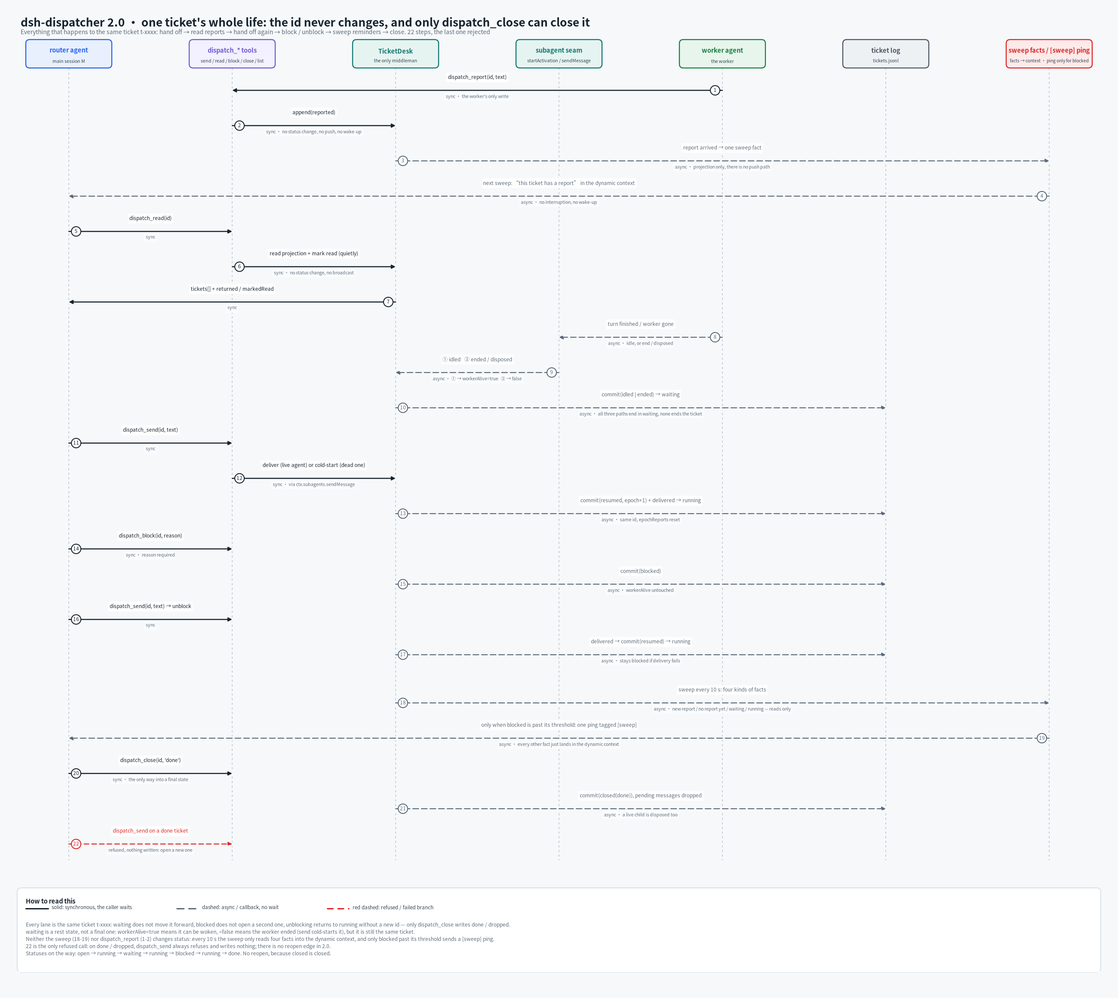
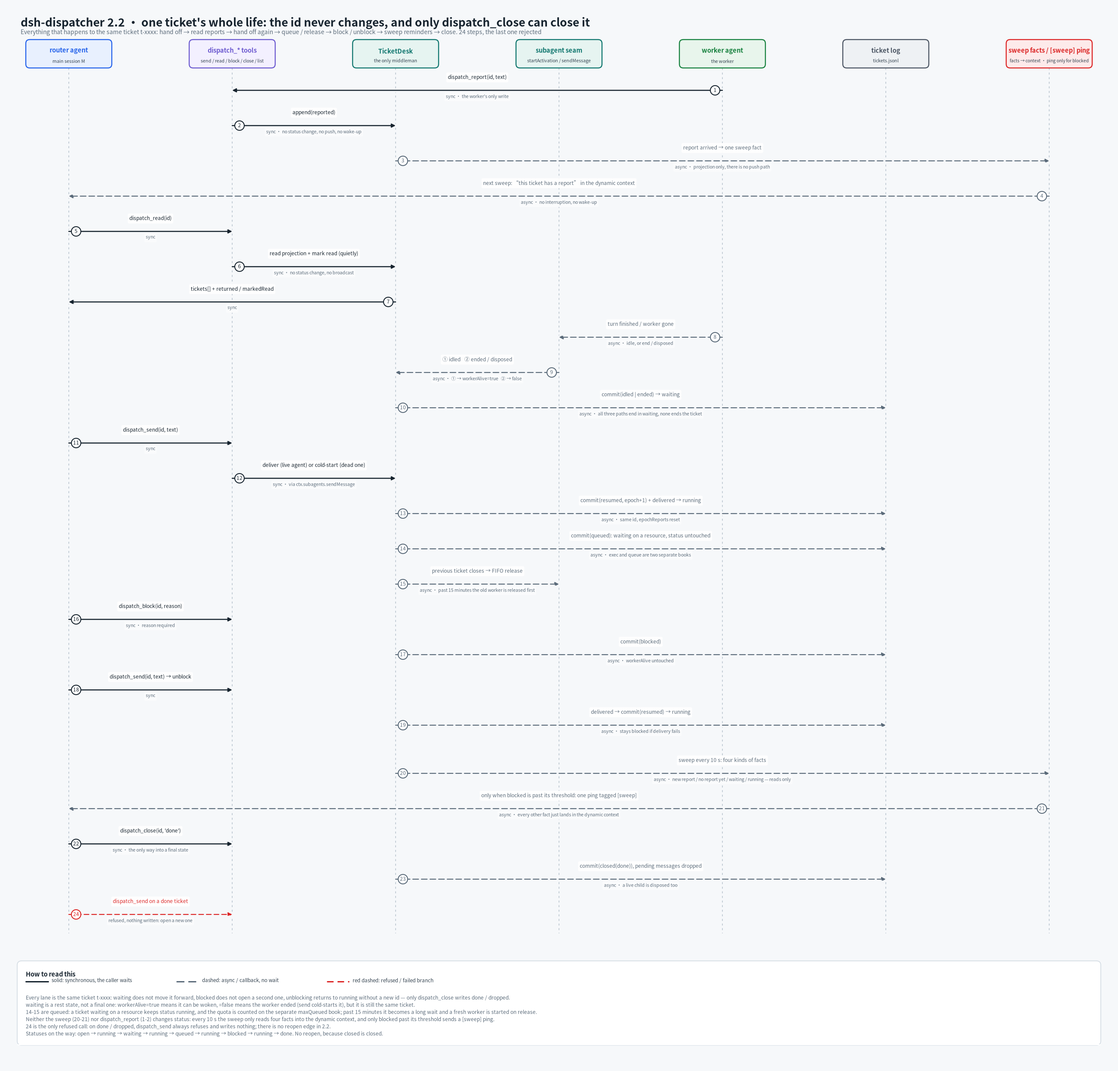
docs: 更新 README、CHANGELOG 与派活时序图
README 中英两版按 2.2.1 的现状收口：安装包名换成 dsh-dispatcher-2.2.1.tgz，
工具表补齐 dispatch_declare 与 dispatch_touch（protocol.ts 一共 11 个），
探路段写清 2 分钟探路窗口与 plan 摘要进执行轮任务书，状态节补 phase
（planning / planned / queued / running）与 15 分钟长短等，开发节补 pnpm coverage；
英文版顺手清掉混在正文里的「子会话」，已废弃的 maxOpen 换成 maxExec / maxQueued（8/4）。

CHANGELOG 从 2.1.1 补到 2.2.1：2.2.0 记事件总线与巡检驱动换源，2.2.1 记
feature/revert-ledger 上 main..HEAD 的 18 条（声明入口、冲突判定、探路窗口、
生命周期收口、四个对象、apply 五安装器、覆盖率接入等），测试 69 个文件 745 条。

docs/sequences.py 两张图加步骤后重生成：open 图补「探路 → dispatch_declare
→ 放行」五步（15 → 20 步），lifecycle 图补 queued 排队与 FIFO 放行两步
（22 → 24 步），中英文案、画布高度、分隔位置一起调，脚本自检 CHECK=PASS。

diff --git a/docs/sequences.py b/docs/sequences.py
@@ -224,8 +224,8 @@ def _legend(ax, x, y, w, items, note, head):
 # ---------------------------------------------------------------- 文案（zh / en）
 LANG = {
     "zh": {
-        "open_title": "dsh-dispatcher 2.0 一次派活：router 只递一句话，选档、建票、spawn 全在票台里",
-        "open_sub": "从左到右是一条调用链：M 只调一个工具，票台负责校验、选档、记账，日志只追加；下面 15 步是这条链上的实际顺序",
+        "open_title": "dsh-dispatcher 2.2 一次派活：router 只递一句话，选档、建票、spawn 全在票台里",
+        "open_sub": "从左到右是一条调用链：M 只调一个工具，票台负责校验、选档、记账，日志只追加；下面 20 步是这条链上的实际顺序（12-17 是探路、declare 与放行）",
         "open_lanes": [
             ("router agent", "主会话 M", BLUE_FC, BLUE),
             ("dispatch_open", "工具壳（唯一入口）", VIOLET_FC, VIOLET),
@@ -248,19 +248,26 @@ LANG = {
             (9, "S", "D", "sync", "childId + messageId", "同步 · 首条 prompt 已进 inbox，原子"),
             (10, "D", "LG", "async", "commit(spawned, running, workerId)", "异步"),
             (11, "D", "R", "sync", "回执：票号 + status + openCount", "同步 · 没有 workerId"),
-            (12, "S", "W", "async", "worker 开始跑（首条 prompt）", "异步 · 不阻塞回执"),
-            (13, "L", "D", "fail", "超时 / 报错 / 返回空 / 名单外的档", "回落 config.defaultPreset，presetSource='fallback'，照走"),
-            (14, "C", "D", "fail", "resolve 失败：档名不在 config.presets", "不报错，同样回落默认档，建票继续"),
-            (15, "S", "D", "fail", "reject（容量 / 深度 / 取消）", "commit(spawn-failed)，票停在 open，工具把原文抛给模型"),
+            (12, "S", "W", "async", "worker 跑探路轮（只读，无写工具）", "异步 · 不阻塞回执"),
+            (13, "W", "T", "sync", "dispatch_declare(plan, intent)", "同步 · 票号不给，按会话反查自己那张票"),
+            (14, "T", "D", "sync", "append(declared) + 冲突判定", "同步 · 只追加，不碰 status"),
+            (15, "D", "LG", "async", "commit(declared → planned / queued)", "异步 · 一直没声明就 2 分钟后降级"),
+            (16, "D", "S", "sync", "startTask：plan 摘要 + intent 进执行轮任务书", "同步 · 这一步就是放行"),
+            (17, "D", "LG", "async", "commit(resumed → running)", "异步 · 同一张票，号不变"),
+            (18, "L", "D", "fail", "超时 / 报错 / 返回空 / 名单外的档", "回落 config.defaultPreset，presetSource='fallback'，照走"),
+            (19, "C", "D", "fail", "resolve 失败：档名不在 config.presets", "不报错，同样回落默认档，建票继续"),
+            (20, "S", "D", "fail", "reject（容量 / 深度 / 取消）", "commit(spawn-failed)，票停在 open，工具把原文抛给模型"),
         ],
         "open_notes": [
             "票是先落盘、再 spawn：7 的 published(open) 一定早于 8 的 startActivation，所以不存在「spawn 了但票里没它」的窗口。",
+            "探路窗口默认 2 分钟：13 步一直没来就降级——票转 planned 并标 degraded，直接投一轮「干完补声明」，不静默放行。",
+            "13 步交的 plan 在 16 步进任务书：摘要前 200 字、前 8 个文件各一句，执行子会话看得见边界，越界对账才有依据。",
             "选档失败只是一次降级——4/5 挂了照样往 7 走；只有 8 的 seam reject 才让票停在 open（可重试、可关，不删票）。",
             "参数里没有 preset：router 想指定也只是建议，判定结果和来源（llm / static / fallback）写进票里，router 从 dispatch_list 看得到。",
         ],
         "open_boundary": "router 只看 ticket，worker 对它透明：回执里没有 workerId",
-        "life_title": "dsh-dispatcher 2.0 一张票的完整生命周期：票号从头到尾不变，只有 dispatch_close 能收工",
-        "life_sub": "同一张票 t-xxxx 上先后发生的所有事：交活 → 读报告 → 再派活 → 卡住/解封 → 巡检提醒 → 收工；22 步，最后一步是收工后再派活被拒",
+        "life_title": "dsh-dispatcher 2.2 一张票的完整生命周期：票号从头到尾不变，只有 dispatch_close 能收工",
+        "life_sub": "同一张票 t-xxxx 上先后发生的所有事：交活 → 读报告 → 再派活 → 排队/放行 → 卡住/解封 → 巡检提醒 → 收工；24 步，最后一步是收工后再派活被拒",
         "life_lanes": [
             ("router agent", "主会话 M", BLUE_FC, BLUE),
             ("dispatch_* 工具", "send / read / block / close / list", VIOLET_FC, VIOLET),
@@ -284,22 +291,25 @@ LANG = {
             (11, "R", "T", "sync", "dispatch_send(id, text)", "同步"),
             (12, "T", "D", "sync", "投递（活 agent 直接投，死了冷启动）", "同步 · 走 ctx.subagents.sendMessage"),
             (13, "D", "LG", "async", "commit(resumed, epoch+1) + delivered → running", "异步 · 票号不变、epochReports 归零"),
-            (14, "R", "T", "sync", "dispatch_block(id, reason)", "同步 · reason 非空"),
-            (15, "D", "LG", "async", "commit(blocked)", "异步 · workerAlive 原样保留"),
-            (16, "R", "T", "sync", "dispatch_send(id, text)：解封", "同步"),
-            (17, "D", "LG", "async", "投递成功 → commit(resumed) → running", "异步 · 投不进去就留在 blocked"),
-            (18, "D", "N", "async", "每 10 秒巡一遍：四类事实", "异步 · 报告到了 / 干完没交报告 / waiting / running，只读不改票"),
-            (19, "N", "R", "async", "只有 blocked 超过阈值才发一条带 [sweep] 的提醒", "异步 · 其余事实只进动态上下文，不打扰人"),
-            (20, "R", "T", "sync", "dispatch_close(id, 'done')", "同步 · 唯一终态入口"),
-            (21, "D", "LG", "async", "commit(closed(done))，作废未投递消息", "异步 · 活着的 child 一并 dispose"),
-            (22, "R", "T", "fail", "done 票上再 dispatch_send", "拒绝、一行不写，回「票已收工，需要继续请开新票」"),
+            (14, "D", "LG", "async", "commit(queued)：撞资源排队，status 不动", "异步 · 8+4 两本账，排队单独数"),
+            (15, "D", "S", "async", "前票收工 → 按 FIFO 放行，投或新起执行轮", "异步 · 排超过 15 分钟先放掉原 worker"),
+            (16, "R", "T", "sync", "dispatch_block(id, reason)", "同步 · reason 非空"),
+            (17, "D", "LG", "async", "commit(blocked)", "异步 · workerAlive 原样保留"),
+            (18, "R", "T", "sync", "dispatch_send(id, text)：解封", "同步"),
+            (19, "D", "LG", "async", "投递成功 → commit(resumed) → running", "异步 · 投不进去就留在 blocked"),
+            (20, "D", "N", "async", "每 10 秒巡一遍：四类事实", "异步 · 报告到了 / 干完没交报告 / waiting / running，只读不改票"),
+            (21, "N", "R", "async", "只有 blocked 超过阈值才发一条带 [sweep] 的提醒", "异步 · 其余事实只进动态上下文，不打扰人"),
+            (22, "R", "T", "sync", "dispatch_close(id, 'done')", "同步 · 唯一终态入口"),
+            (23, "D", "LG", "async", "commit(closed(done))，作废未投递消息", "异步 · 活着的 child 一并 dispose"),
+            (24, "R", "T", "fail", "done 票上再 dispatch_send", "拒绝、一行不写，回「票已收工，需要继续请开新票」"),
         ],
         "life_notes": [
             "整张图都是同一张票 t-xxxx：进 waiting 不前、进 blocked 不再开票、解封回 running 也不换号——只有 dispatch_close 能把它写成 done / dropped。",
             "waiting 是静息态不是终态：workerAlive=true 表示叫得醒，=false 表示人已经结束（send 走冷启动），但票还是同一张。",
-            "巡检（18-19）和 dispatch_report（1-2）都不改 status：每 10 秒只把四类事实读出来写进动态上下文，只有 blocked 过阈值才发一条 [sweep] 提醒。",
-            "22 号是唯一被拒的动作：done / dropped 上 dispatch_send 一律拒绝、一行不写；「重开」这条边在 2.0 里不存在。",
-            "票状态一路走过：open → running → waiting → running → blocked → running → done；没有重开，因为收工就是收工。",
+            "14-15 的 queued 只写相位：撞资源的票 status 还是 running，名额单独记在 maxQueued 那本账上；排队超过 15 分钟算长等，放行时新起一只。",
+            "巡检（20-21）和 dispatch_report（1-2）都不改 status：每 10 秒只把四类事实读出来写进动态上下文，只有 blocked 过阈值才发一条 [sweep] 提醒。",
+            "24 号是唯一被拒的动作：done / dropped 上 dispatch_send 一律拒绝、一行不写；「重开」这条边在 2.2 里不存在。",
+            "票状态一路走过：open → running → waiting → running → queued → running → blocked → running → done；没有重开，因为收工就是收工。",
         ],
         "legend_head": "怎么读这张图",
         "legend_items": [
@@ -309,8 +319,8 @@ LANG = {
         ],
     },
     "en": {
-        "open_title": "dsh-dispatcher 2.0 · one dispatch: the router sends a sentence, the desk picks the preset, opens the ticket and spawns",
-        "open_sub": "Left to right is one call chain: M calls a single tool, the desk validates, picks the preset and records; the log is append-only. The 15 steps below are the real order",
+        "open_title": "dsh-dispatcher 2.2 · one dispatch: the router sends a sentence, the desk picks the preset, opens the ticket and spawns",
+        "open_sub": "Left to right is one call chain: M calls a single tool, the desk validates, picks the preset and records; the log is append-only. The 20 steps below are the real order (12-17 are the probe, declare and release)",
         "open_lanes": [
             ("router agent", "main session M", BLUE_FC, BLUE),
             ("dispatch_open", "tool shell (only entry)", VIOLET_FC, VIOLET),
@@ -333,19 +343,26 @@ LANG = {
             (9, "S", "D", "sync", "childId + messageId", "sync · first prompt already in the inbox"),
             (10, "D", "LG", "async", "commit(spawned, running, workerId)", "async"),
             (11, "D", "R", "sync", "reply: ticket id + status + openCount", "sync · no workerId"),
-            (12, "S", "W", "async", "the worker starts (first prompt)", "async · does not block the reply"),
-            (13, "L", "D", "fail", "timeout / error / empty / unknown preset", "fall back to config.defaultPreset, presetSource='fallback'"),
-            (14, "C", "D", "fail", "resolve fails: preset not in config.presets", "no error — same fallback, the ticket still opens"),
-            (15, "S", "D", "fail", "reject (capacity / depth / cancelled)", "commit(spawn-failed), ticket stays open, the error text goes to the model"),
+            (12, "S", "W", "async", "worker starts the probe round (read-only)", "async · does not block the reply"),
+            (13, "W", "T", "sync", "dispatch_declare(plan, intent)", "sync · no ticket id — the desk finds this worker's ticket"),
+            (14, "T", "D", "sync", "append(declared) + conflict judgement", "sync · append only, status untouched"),
+            (15, "D", "LG", "async", "commit(declared → planned / queued)", "async · no declaration in 2 minutes and the ticket degrades"),
+            (16, "D", "S", "sync", "startTask: plan summary + intent into the task brief", "sync · this is the release"),
+            (17, "D", "LG", "async", "commit(resumed → running)", "async · same ticket, same id"),
+            (18, "L", "D", "fail", "timeout / error / empty / unknown preset", "fall back to config.defaultPreset, presetSource='fallback'"),
+            (19, "C", "D", "fail", "resolve fails: preset not in config.presets", "no error — same fallback, the ticket still opens"),
+            (20, "S", "D", "fail", "reject (capacity / depth / cancelled)", "commit(spawn-failed), ticket stays open, the error text goes to the model"),
         ],
         "open_notes": [
             "The ticket is written before the spawn: step 7's published(open) always precedes step 8's startActivation, so there is no window with a worker but no ticket.",
+            "The probe window is 2 minutes: if step 13 never arrives the ticket degrades — it moves to planned, is marked degraded, and gets one \"just do it, declare afterwards\" round instead of a silent release.",
+            "The plan from step 13 goes into the brief at step 16: the 200-character summary and the first 8 files, one line each, so the working fish can see its own boundary.",
             "A preset failure is only a downgrade — steps 4/5 can fail and step 7 still runs; only a seam reject at step 8 leaves the ticket in open (retryable, closable, never deleted).",
             "No preset argument: the router may suggest one, but the decision and its source (llm / static / fallback) are stored on the ticket and visible via dispatch_list.",
         ],
         "open_boundary": "the router only sees the ticket; the worker is invisible to it — the reply has no workerId",
-        "life_title": "dsh-dispatcher 2.0 · one ticket's whole life: the id never changes, and only dispatch_close can close it",
-        "life_sub": "Everything that happens to the same ticket t-xxxx: hand off → read reports → hand off again → block / unblock → sweep reminders → close. 22 steps, the last one rejected",
+        "life_title": "dsh-dispatcher 2.2 · one ticket's whole life: the id never changes, and only dispatch_close can close it",
+        "life_sub": "Everything that happens to the same ticket t-xxxx: hand off → read reports → hand off again → queue / release → block / unblock → sweep reminders → close. 24 steps, the last one rejected",
         "life_lanes": [
             ("router agent", "main session M", BLUE_FC, BLUE),
             ("dispatch_* tools", "send / read / block / close / list", VIOLET_FC, VIOLET),
@@ -369,22 +386,25 @@ LANG = {
             (11, "R", "T", "sync", "dispatch_send(id, text)", "sync"),
             (12, "T", "D", "sync", "deliver (live agent) or cold-start (dead one)", "sync · via ctx.subagents.sendMessage"),
             (13, "D", "LG", "async", "commit(resumed, epoch+1) + delivered → running", "async · same id, epochReports reset"),
-            (14, "R", "T", "sync", "dispatch_block(id, reason)", "sync · reason required"),
-            (15, "D", "LG", "async", "commit(blocked)", "async · workerAlive untouched"),
-            (16, "R", "T", "sync", "dispatch_send(id, text) → unblock", "sync"),
-            (17, "D", "LG", "async", "delivered → commit(resumed) → running", "async · stays blocked if delivery fails"),
-            (18, "D", "N", "async", "sweep every 10 s: four kinds of facts", "async · new report / no report yet / waiting / running — reads only"),
-            (19, "N", "R", "async", "only when blocked is past its threshold: one ping tagged [sweep]", "async · every other fact just lands in the dynamic context"),
-            (20, "R", "T", "sync", "dispatch_close(id, 'done')", "sync · the only way into a final state"),
-            (21, "D", "LG", "async", "commit(closed(done)), pending messages dropped", "async · a live child is disposed too"),
-            (22, "R", "T", "fail", "dispatch_send on a done ticket", "refused, nothing written: open a new one"),
+            (14, "D", "LG", "async", "commit(queued): waiting on a resource, status untouched", "async · exec and queue are two separate books"),
+            (15, "D", "S", "async", "previous ticket closes → FIFO release", "async · past 15 minutes the old worker is released first"),
+            (16, "R", "T", "sync", "dispatch_block(id, reason)", "sync · reason required"),
+            (17, "D", "LG", "async", "commit(blocked)", "async · workerAlive untouched"),
+            (18, "R", "T", "sync", "dispatch_send(id, text) → unblock", "sync"),
+            (19, "D", "LG", "async", "delivered → commit(resumed) → running", "async · stays blocked if delivery fails"),
+            (20, "D", "N", "async", "sweep every 10 s: four kinds of facts", "async · new report / no report yet / waiting / running — reads only"),
+            (21, "N", "R", "async", "only when blocked is past its threshold: one ping tagged [sweep]", "async · every other fact just lands in the dynamic context"),
+            (22, "R", "T", "sync", "dispatch_close(id, 'done')", "sync · the only way into a final state"),
+            (23, "D", "LG", "async", "commit(closed(done)), pending messages dropped", "async · a live child is disposed too"),
+            (24, "R", "T", "fail", "dispatch_send on a done ticket", "refused, nothing written: open a new one"),
         ],
         "life_notes": [
             "Every lane is the same ticket t-xxxx: waiting does not move it forward, blocked does not open a second one, unblocking returns to running without a new id — only dispatch_close writes done / dropped.",
             "waiting is a rest state, not a final one: workerAlive=true means it can be woken, =false means the worker ended (send cold-starts it), but it is still the same ticket.",
-            "Neither the sweep (18-19) nor dispatch_report (1-2) changes status: every 10 s the sweep only reads four facts into the dynamic context, and only blocked past its threshold sends a [sweep] ping.",
-            "22 is the only refused call: on done / dropped, dispatch_send always refuses and writes nothing; there is no reopen edge in 2.0.",
-            "Statuses on the way: open → running → waiting → running → blocked → running → done. No reopen, because closed is closed.",
+            "14-15 are queued: a ticket waiting on a resource keeps status running, and the quota is counted on the separate maxQueued book; past 15 minutes it becomes a long wait and a fresh worker is started on release.",
+            "Neither the sweep (20-21) nor dispatch_report (1-2) changes status: every 10 s the sweep only reads four facts into the dynamic context, and only blocked past its threshold sends a [sweep] ping.",
+            "24 is the only refused call: on done / dropped, dispatch_send always refuses and writes nothing; there is no reopen edge in 2.2.",
+            "Statuses on the way: open → running → waiting → running → queued → running → blocked → running → done. No reopen, because closed is closed.",
         ],
         "legend_head": "How to read this",
         "legend_items": [
@@ -399,8 +419,8 @@ LANG = {
 # ---------------------------------------------------------------- 图一：一次派活
 def draw_seq_open(lang):
     t = LANG[lang]
-    W, H = 2600, 1900
-    fig, ax = canvas(W, H, (26, 19.0))
+    W, H = 2600, 2340
+    fig, ax = canvas(W, H, (26, 23.4))
 
     txt(ax, 48, H - 36, t["open_title"], fs=19, weight="bold")
     txt(ax, 48, H - 66, t["open_sub"], fs=10.0, color=MUTED)
@@ -411,18 +431,18 @@ def draw_seq_open(lang):
     pitch = (W - 120 - bw) / (n - 1)
     xs = [60 + bw / 2 + i * pitch for i in range(n)]
     for (name, sub, fc, ec), x in zip(lanes, xs):
-        _lane(ax, x, bw, name, sub, fc, ec, 1808, 300)
+        _lane(ax, x, bw, name, sub, fc, ec, H - 92, 300)
 
     pos = dict(zip(("R", "T", "D", "C", "L", "S", "W", "LG"), xs))
 
     # router / 票台之间的边界
     bx = xs[0] + 92
-    path(ax, [(bx, 1740), (bx, 420)], color="#9aa7b3", lw=1.5, ls=(0, (6, 4)))
-    txt(ax, bx + 12, 404, t["open_boundary"], fs=8.4, color=MUTED, max_w=900)
+    path(ax, [(bx, H - 160), (bx, 470)], color="#9aa7b3", lw=1.5, ls=(0, (6, 4)))
+    txt(ax, bx + 12, 454, t["open_boundary"], fs=8.4, color=MUTED, max_w=900)
 
-    y = 1700
+    y = H - 200
     for num, a, b, kind, l1, l2 in t["open_rows"]:
-        if num == 13:
+        if num == 18:
             y -= 30
         _msg(ax, num, pos[a], pos[b], y, l1, l2, kind)
         y -= 86
@@ -439,8 +459,8 @@ def draw_seq_open(lang):
 # ---------------------------------------------------------------- 图二：一张票的生命周期
 def draw_seq_life(lang):
     t = LANG[lang]
-    W, H = 2600, 2320
-    fig, ax = canvas(W, H, (26, 23.2))
+    W, H = 2600, 2490
+    fig, ax = canvas(W, H, (26, 24.9))
 
     txt(ax, 48, H - 36, t["life_title"], fs=19, weight="bold")
     txt(ax, 48, H - 66, t["life_sub"], fs=10.0, color=MUTED)
@@ -451,13 +471,13 @@ def draw_seq_life(lang):
     pitch = (W - 120 - bw) / (n - 1)
     xs = [60 + bw / 2 + i * pitch for i in range(n)]
     for (name, sub, fc, ec), x in zip(lanes, xs):
-        _lane(ax, x, bw, name, sub, fc, ec, 2228, 320)
+        _lane(ax, x, bw, name, sub, fc, ec, H - 92, 320)
 
     pos = dict(zip(("R", "T", "D", "S", "W", "LG", "N"), xs))
 
-    y = 2110
+    y = H - 210
     for num, a, b, kind, l1, l2 in t["life_rows"]:
-        if num == 18:
+        if num == 20:
             y -= 30
         _msg(ax, num, pos[a], pos[b], y, l1, l2, kind)
         y -= 82

diff --git a/README.en.md b/README.en.md
@@ -20,7 +20,7 @@ The figure is one call chain: the main session calls `dispatch_open` once, the d
 
 ```sh
 pnpm pack
-dsh plugin --profile <name> add ./dsh-dispatcher-2.0.0.tgz
+dsh plugin --profile <name> add ./dsh-dispatcher-2.2.1.tgz
 dsh --profile <name> --dump-config | grep 'dsh-dispatcher'
 ```
 
@@ -34,7 +34,8 @@ To use SQLite, set `store.backend: sqlite` (optionally `store.file`; without it 
   name: dsh-dispatcher
   config:
     defaultPreset: t1            # required; must exist in the preset registry
-    maxOpen: 4
+    maxExec: 8                   # tickets actually executing at once
+    maxQueued: 4                 # tickets waiting in the conflict queue
     allowedPresets: [t0, t1, t2] # mirror used by the preset guard; [] disables the check
 ```
 
@@ -51,10 +52,14 @@ The full key list, defaults, and the event model live in [docs/internals.en.md](
 | `dispatch_block` | main session | Park a ticket while a person decides something |
 | `dispatch_close` | main session | Finish it: `done` when the work landed, `dropped` when abandoned; queued messages are voided and the fish is stopped |
 | `dispatch_report` | fish | Hand back a report; append-only, it cannot change status |
+| `dispatch_declare` | fish | Declare `plan` and `intent` in the probe round; no ticket id — the desk finds the ticket this worker owns, and nothing but an append happens |
+| `dispatch_touch` | fish | Report the files actually touched this round, reconciled when the ticket closes; merged by path, still scoped to the caller's own ticket |
 | `dispatch_log_action` | main session, fish | Log one side-effecting step and how to undo it; append-only, never touches status |
 | `progress_note` | manual | Push one line of progress to the phone without waking a session or touching disk |
 
-`dispatch_open` takes optional `origin` (who opened it). It takes neither `intent` (paths/services/remotes touched, reversibility, dry-run result) nor `probe`: every ticket starts with a probe round, and there is no path that skips it. The first 子会话 has no `write` / `edit` / `bash`, reads the code and hands `plan` plus `intent` back with `dispatch_declare` before the desk lets it run. Shape and audit details live in [docs/revert-ledger.md](docs/revert-ledger.md).
+`dispatch_open` takes optional `origin` (who opened it). It takes neither `intent` (paths/services/remotes touched, reversibility, dry-run result) nor `probe`: every ticket starts with a probe round, and there is no path that skips it. The first fish has no `write` / `edit` / `bash`, reads the code and hands `plan` plus `intent` back with `dispatch_declare` before the desk lets it run. Shape and audit details live in [docs/revert-ledger.md](docs/revert-ledger.md).
+
+The probe window is 2 minutes: if no declaration arrives by then the ticket degrades — it moves to `planned`, is marked `degraded`, and gets one "just do it, declare afterwards" task brief instead of sitting in the probe round forever. A declaration is never wasted: the plan summary (200 characters) and the first 8 files (one line each) go into the execution-round brief, so the working fish does not have to rediscover its own boundaries.
 
 ### Filling in `goal` and `brief`
 
@@ -66,7 +71,9 @@ Write `goal` in full, in the requester's own words. The fish cannot see the main
 
 ![One ticket's whole life (English)](docs/dispatcher-seq-lifecycle.en.png)
 
-Six statuses: `open`, `running`, `waiting`, `blocked`, `done`, `dropped`. The first four are open and occupy `maxOpen`. `waiting` only means the fish's session stopped, not that work was delivered — delivery is measured by reports on the ticket.
+Six statuses: `open`, `running`, `waiting`, `blocked`, `done`, `dropped`. The first four are open and occupy `maxExec`. `waiting` only means the fish's session stopped, not that work was delivered — delivery is measured by reports on the ticket.
+
+Besides status there is a phase: `planning` is the read-only probe round, `planned` means the declaration is in and the ticket is waiting to be released, `queued` means it is waiting on a resource, and `running` is normal work. `queued` and `blocked` look alike but differ: `blocked` only means a person has to decide and is written by the main session alone, while `queued` means waiting on a resource and is written by the desk. Queueing has two bands: past 15 minutes it is a long wait — the original fish is released and a fresh one is started on release with the previous `plan` in its brief; under 15 minutes it is a short wait and the fish is kept, saving a cold start.
 
 ## Things to watch out for
 
@@ -74,7 +81,7 @@ Six statuses: `open`, `running`, `waiting`, `blocked`, `done`, `dropped`. The fi
 
 **A fish cannot write memory.** The seven memory-write tools are stripped from its schema (`memory_save`, `memory_archive`, `memory_merge`, and friends); recall stays. It has no `dispatch_block` either — when blocked it says so in a report and waits.
 
-**The sweep only reminds; it never edits tickets.** Once every 10 seconds by default (`sweepMs`): unread reports, finished rounds, and long-running tickets are just a line of state in front of the main session, withdrawn once that ticket has been looked at; only a ticket stuck in `blocked` for 60 minutes actually calls you. It does not collect reports and does not close anything. `maxOpen` defaults to 8, and `done` / `dropped` do not count.
+**The sweep only reminds; it never edits tickets.** Once every 10 seconds by default (`sweepMs`): unread reports, finished rounds, and long-running tickets are just a line of state in front of the main session, withdrawn once that ticket has been looked at; only a ticket stuck in `blocked` for 60 minutes actually calls you. It does not collect reports and does not close anything. `maxExec` defaults to 8 and `maxQueued` to 4, counted as two separate books; `done` / `dropped` do not count.
 
 **MCP tools must be named one by one.** The main session keeps only the whitelist, MCP tools are not in it, and there is no wildcard: add each registered name to `extraRouterTools`. A typo costs a warning line, not the whitelist.
 
@@ -87,6 +94,7 @@ Six statuses: `open`, `running`, `waiting`, `blocked`, `done`, `dropped`. The fi
 ```sh
 pnpm install
 pnpm test       # vitest
+pnpm coverage   # vitest run --coverage, v8 provider
 pnpm run typecheck
 pnpm run build  # tsdown → lib/
 ```

diff --git a/CHANGELOG.md b/CHANGELOG.md
@@ -1,5 +1,45 @@
 # Changelog
 
+## 2.2.1 - 2026-11-15
+
+### Added
+
+2026-11-15 — 探路声明成了票上意图的唯一入口：`dispatch_open` 不再收 `intent` / `probe`，每张票一律先起只读探路子会话，它用新工具 `dispatch_declare` 交 `plan`（摘要 + 文件清单）和 `intent`（writes / reads / impact / reversibility / dryRun / undo），票号不给、按调用者反查自己名下那张票，只追加不碰状态；收尾用新工具 `dispatch_touch` 报这一轮实际动过的文件，按路径合并，关票时对账。资源串认 `file:` / `dir:` / `git:` / `svc:` / `port:` / `dev:` 六个前缀，`git` 自动补仓库根；脏串（`cmd:`、`http:`、带说明的端口）只降级并 warn，不打断判定。探路窗口 2 分钟，到点没声明就转 `planned` 并标 `degraded`，投一轮「直接干、干完补声明」的任务书；交过的 `plan` 摘要（200 字）与前 8 个文件（每个一句）写进执行轮任务书，执行子会话不用重新摸边界。
+
+冲突判定落在 `src/tickets/conflict.ts`：同一资源强冲突，`dir` 祖孙与 `svc` / `port` / `dev` 同类判 weak，同 repo 不同 worktree 按 git 两模式判（都没声明 worktree 算强冲突、各声明不同 worktree 降回文件级）；撞资源的票进 `phase=queued` 排队，由票台按 FIFO 放行，`status=blocked` 从此只表示「等人拍板」。
+
+### Changed
+
+2026-11-15 — 生命周期收口：巡检每拍补一次漏唤醒兜底（对手票终态 / 不在日志 / worker 不在活表就放行）、排队超过 15 分钟放掉原 worker 并在放行时新起一只、越界除回执外经 notifier 推一句、删掉 189 行无调用者的 `src/zombie.ts` 与 21 条测试。`apply()` 拆成五个安装器（Prompt / Store / Restrict / Tools / Desk），1420 行收到 171 行；协议常量与配置默认值单点化到 `src/protocol.ts` / `src/defaults.ts`，工具名、状态与相位、写类工具名单、`34/20/60` 和名额默认值不再各写一份。接入 v8 覆盖率（`pnpm coverage`），cli 的兜底告警跟着走默认值。这 18 条里 apply 拆分与大纲同步那 6 条落在 `v2.2.1` tag 之后，一并记在本条目，下次发版不再重复记。
+
+### Fixed
+
+2026-11-15 — 三个审计点：`delivered` 在 `phase=planning` 时不再把票推成 `running`（否则 idle 不落 `idled`、不派执行轮，只能等探路降级兜底）；`dispatch_report` 改成和 `declare` / `touch` 同一套归属反查，别人的票写不进来；planned 的票补兜底放行，探路轮 idle 不再静默。等待守卫改从 `tools` 服务取，不再吃不到工具面。
+
+### Docs
+
+2026-11-15 — `docs/revert-ledger.md` 落地（intent 入口从 `dispatch_open` 挪到 `dispatch_declare`）；README 中英两版同步探路窗口、`phase` 与长短等、`maxExec` / `maxQueued` 两本账和 `pnpm coverage`；`docs/sequences.py` 重画四张时序图，open 图补「探路 → declare → 放行」，lifecycle 图补「`queued` 排队」。
+
+Tests: 69 个文件 745 条全绿，`tsc --noEmit` 干净，`pnpm run build` 通过。
+
+## 2.2.0 - 2026-11-09
+
+### Added
+
+2026-11-09 — 票事件写入走 dsh-events，直写路径保留作退化：`TicketLog` 在 commit 时惰性探测 `events` 服务，拿到就用、拿不到回直写，探测结果只缓存服务对象、不缓存「暂时没有」；publish 带上票号，`foldTicket` 不再翻 payload 兜底。
+
+巡检换驱动源：`dispatcher.sweep.tick` 定义并订阅，`schedule` 服务在时注册规则，注册成功才停自己的 `setInterval`；schedule 不在、注册被拒、tick 断流三条路各自回落并留一行日志。另挂 `internal/service` 监听，schedule 就绪当场 reconcile，监听器整只包 try/catch（dsh-events 的 emit 不兜错，抛出来会弄挂 timer 的 apply）。
+
+### Fixed
+
+2026-11-09 — `clock.setInterval` 改成 unref；schedule 缺席时日志按情况分开写，watchdog 在监听挂着却一次事件没收到时从 3 个周期收紧到 10 分钟，并顺手用 `schedule.list()` 核一遍规则还在不在。
+
+### Changed
+
+2026-11-09 — 许可证统一为 MIT，版权人改为蓝色大肥鱼。
+
+Tests: 全量 `pnpm test` 与 `tsc --noEmit` 全绿；当时条数未单独记账，2.2.1 收在 69 个文件 745 条。
+
 ## 2.1.1 - 2026-11-09
 
 ### Changed

diff --git a/README.md b/README.md
@@ -20,7 +20,7 @@
 
 ```sh
 pnpm pack
-dsh plugin --profile <name> add ./dsh-dispatcher-2.0.0.tgz
+dsh plugin --profile <name> add ./dsh-dispatcher-2.2.1.tgz
 dsh --profile <name> --dump-config | grep 'dsh-dispatcher'
 ```
 
@@ -52,10 +52,14 @@ dsh --profile <name> --dump-config | grep 'dsh-dispatcher'
 | `dispatch_block` | 主会话 | 等人拍板时把票挂起，写清在等什么 |
 | `dispatch_close` | 主会话 | 收工：`done` 交活、`dropped` 不干了；排队消息作废、子会话停掉 |
 | `dispatch_report` | 子会话 | 交一份报告，只追加一行，改不了票的状态 |
+| `dispatch_declare` | 子会话 | 探路轮交 `plan` 和 `intent`；票号不用给，按调用者反查自己名下那张票，只追加不碰状态 |
+| `dispatch_touch` | 子会话 | 报这一轮实际动过的文件，关票时对账；按路径合并，同样不能写到别人的票上 |
 | `dispatch_log_action` | 主会话、子会话 | 记一步动作账：干了什么、怎么撤；只追加，不碰状态 |
 | `progress_note` | 手工 | 一行进度直接推到手机，不叫醒会话、不写盘 |
 
-开票只带 `origin`（谁提的）。`intent`（会碰哪些路径/服务/远端、能不能撤、预演过没过）和 `probe` 都不收：每张票一律先探路，没有不探路的快路径。第一轮子会话只有只读工具（没有 `write` / `edit` / `bash`），读完代码自己用 `dispatch_declare` 交 `plan` 和 `intent`，票台才放行执行。形状和审计细节在 [docs/revert-ledger.md](docs/revert-ledger.md)。
+开票只带 `origin`（谁提的）。`intent`（会碰哪些路径/服务/远端、能不能撤、预演过没过）和 `probe` 都不收：每张票一律先探路，没有不探路的快路径。第一轮子会话只有只读工具（没有 `write` / `edit` / `bash`），读完代码自己用 `dispatch_declare` 交 `plan` 和 `intent`，票台才放行执行。
+
+探路窗口默认 2 分钟：到点还没等到声明就降级——票转 `planned`、标 `degraded`，投一轮「直接干、干完补一份声明」的任务书，不把票卡死在探路里。交上来的 `plan` 不会白交：摘要（200 字）和前 8 个文件（每个一句说明）写进执行轮任务书，执行子会话照着边界干，不用重新摸一遍。形状和审计细节在 [docs/revert-ledger.md](docs/revert-ledger.md)。
 
 ### 怎么填 `goal` 和 `brief`
 
@@ -68,6 +72,8 @@ dsh --profile <name> --dump-config | grep 'dsh-dispatcher'
 ![一张票的完整生命周期（中文版）](docs/dispatcher-seq-lifecycle.zh.png)
 
 六个状态：`open`、`running`、`waiting`、`blocked`、`done`、`dropped`。前四个算还开着；`waiting` 只是子会话那个会话停了，不代表交活——交没交活看票里有没有报告。
+
+状态之外还有相位 `phase`：`planning` 是只读探路轮、`planned` 是声明交了等放行、`queued` 是撞了资源在排队、`running` 是正常干。`queued` 和 `blocked` 长得像，语义不一样：`blocked` 只表示等人拍板，只由主会话写；`queued` 表示在等资源，由票台自己写。排队分长短两档：超过 15 分钟算长等，把原来的子会话放掉，放行时新起一只、任务书带着上一轮的 `plan`；15 分钟以内算短等，子会话留着不动，省一次冷启动。
 
 ## 注意事项
 
@@ -88,6 +94,7 @@ dsh --profile <name> --dump-config | grep 'dsh-dispatcher'
 ```sh
 pnpm install
 pnpm test       # vitest
+pnpm coverage   # vitest run --coverage，v8 provider
 pnpm run typecheck
 pnpm run build  # tsdown → lib/
 ```
